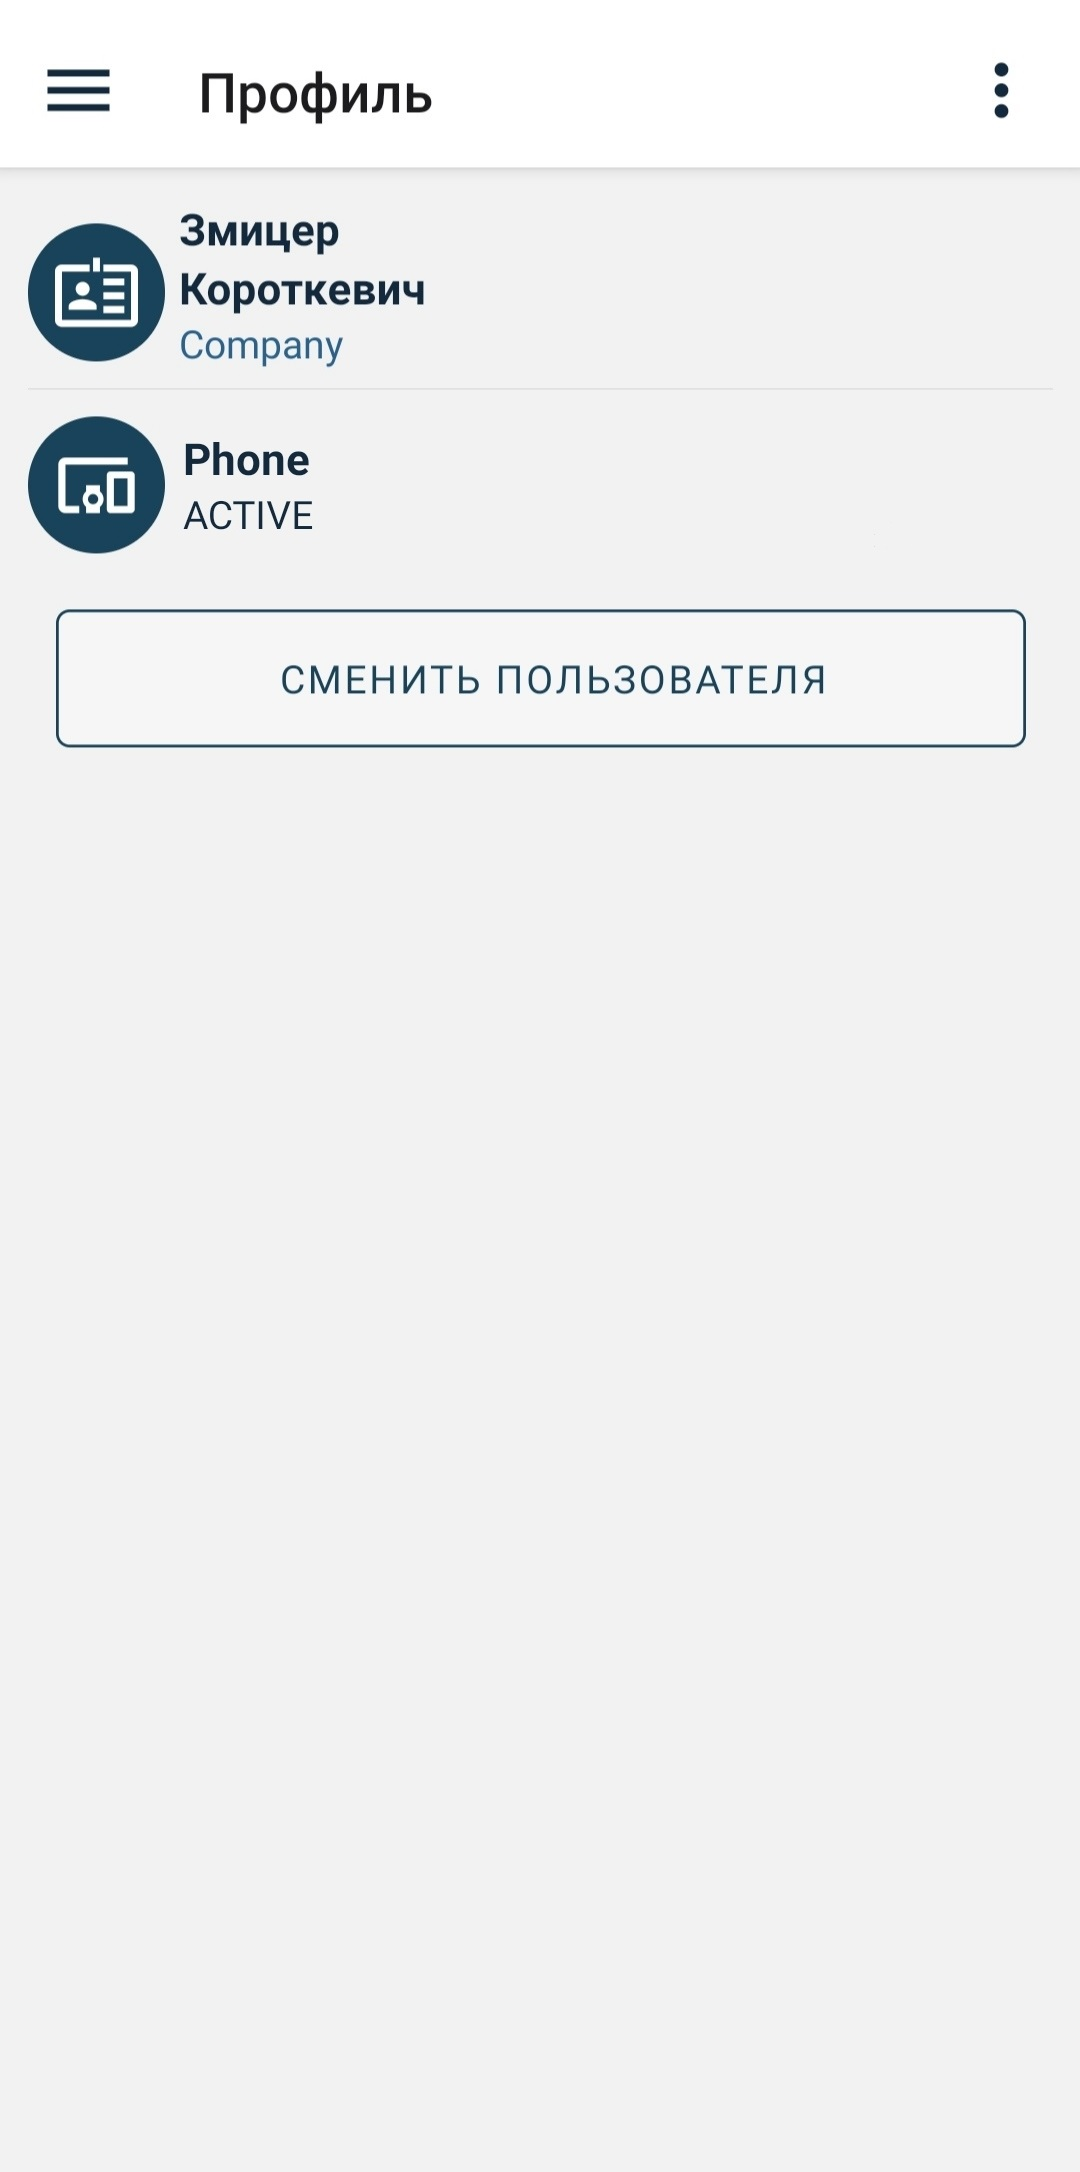
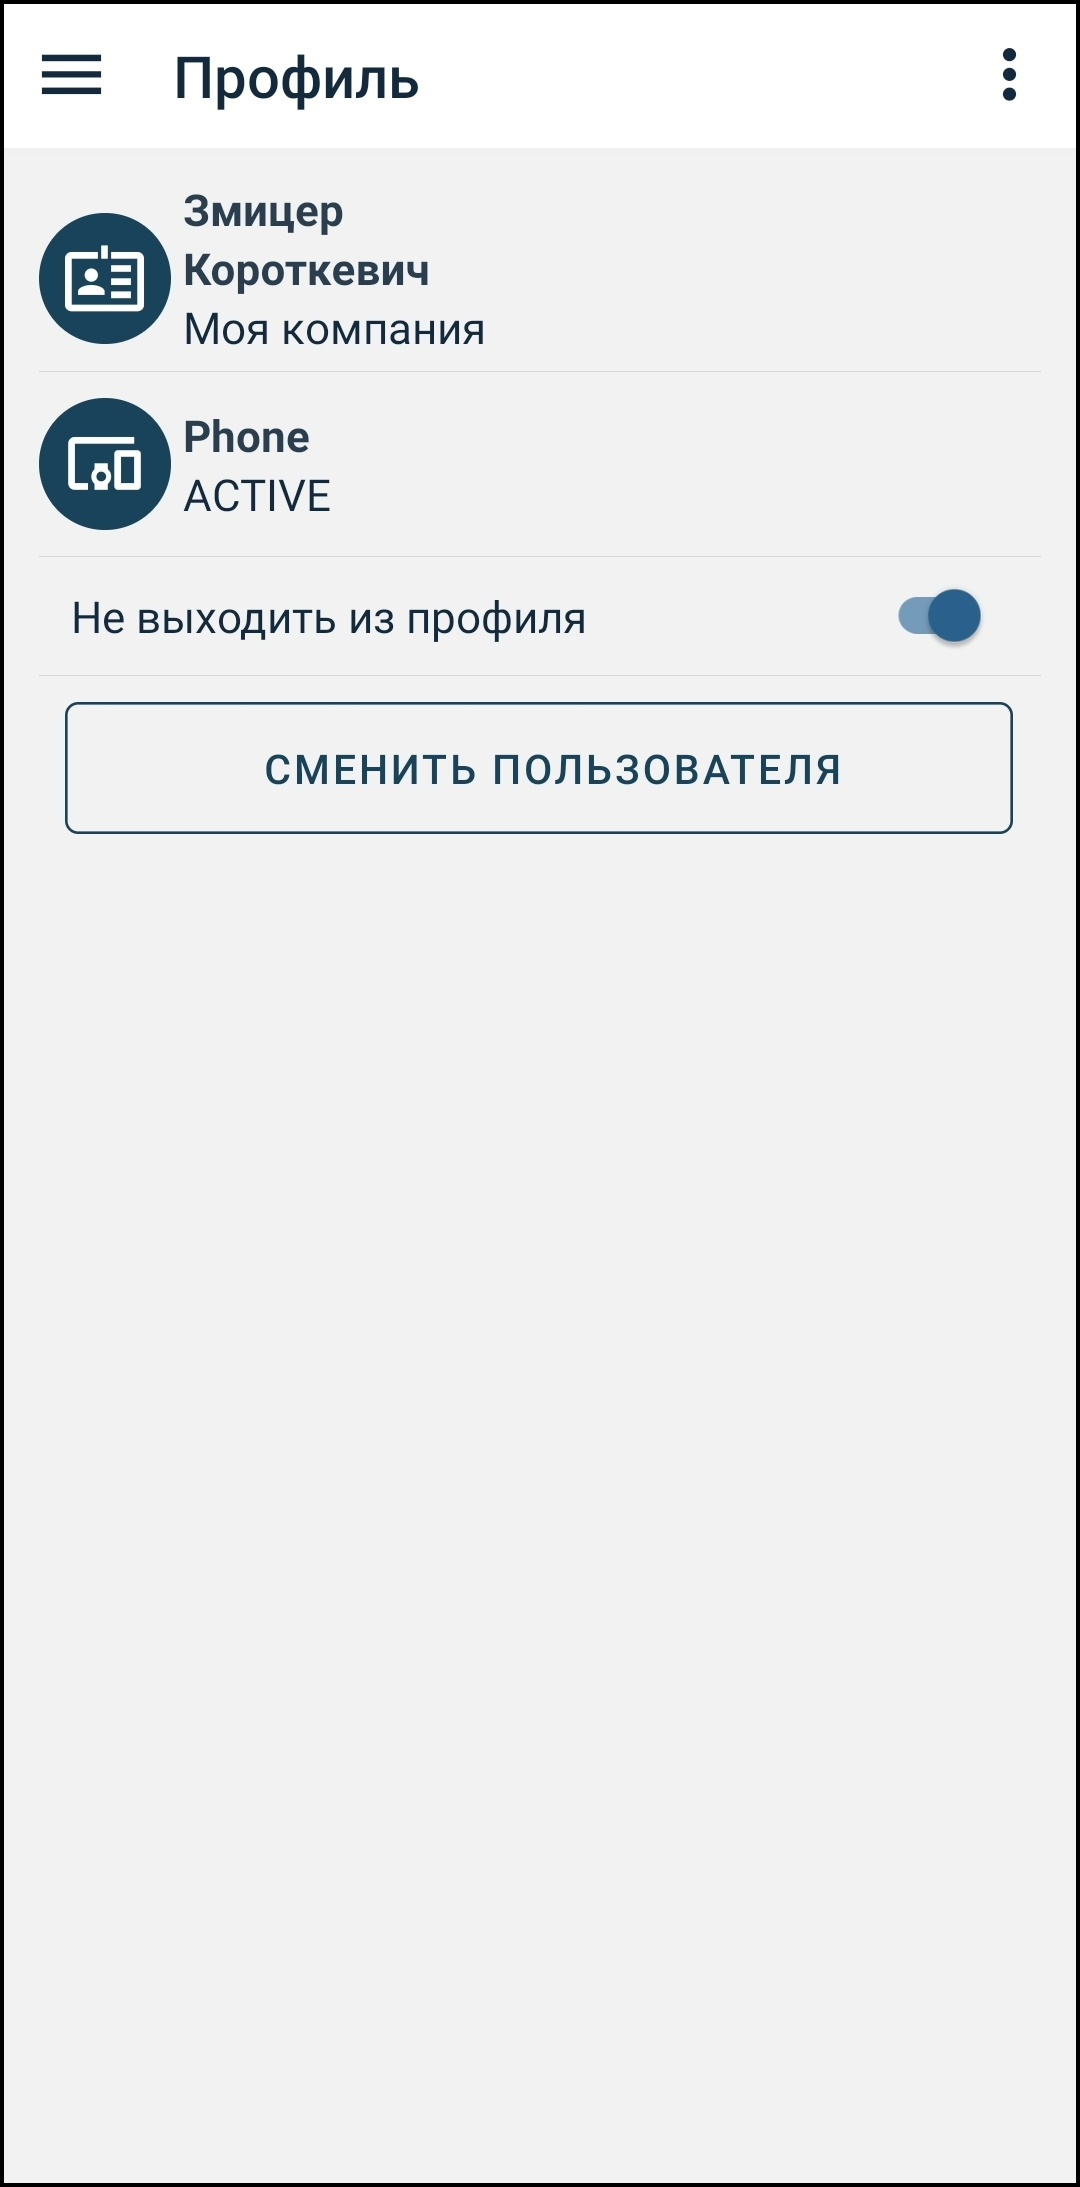
changes docs

diff --git a/docs/gdmn-gd-movement/docs/README.md b/docs/gdmn-gd-movement/docs/README.md
@@ -390,7 +390,6 @@
 
 <img src="img/9.Profile/9.Profile.jpg" alt="drawing" height="400"/> 
 
-
 Этот экран позволяет: 
 
 |  Параметр   |  Описание |
@@ -402,9 +401,11 @@
 
 Для этого необходимо нажать на иконку меню " **⁝** ", расположенную в правом верхнем углу, и выбрать пункт, соответственно необходимости.
 
- <img src="img/9.Profile/9.ClearData.jpg" alt="drawing" height="400"/>
+ <img src="img/9.Profile/9.ClearData.jpg" alt="drawing" height="400"/> 
 
 Если параметр "Не выходить из профиля" отключен, то при каждом новом открытии приложения необходимо будет вновь вводить данные пользователя.
+
+<img src="img/9.Profile/9.ProfileNotUser.jpg" alt="drawing" height="400"/> <img src="img/1.Connection/1.Login.jpg" alt="drawing" height="400"/>
 
 ## 8. Сканирование
 
